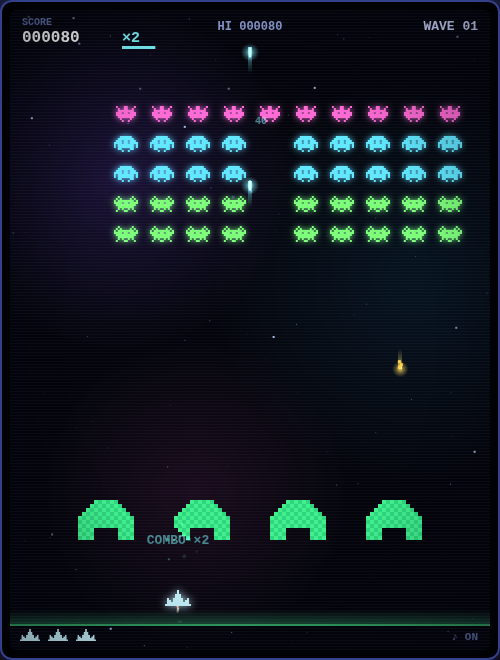
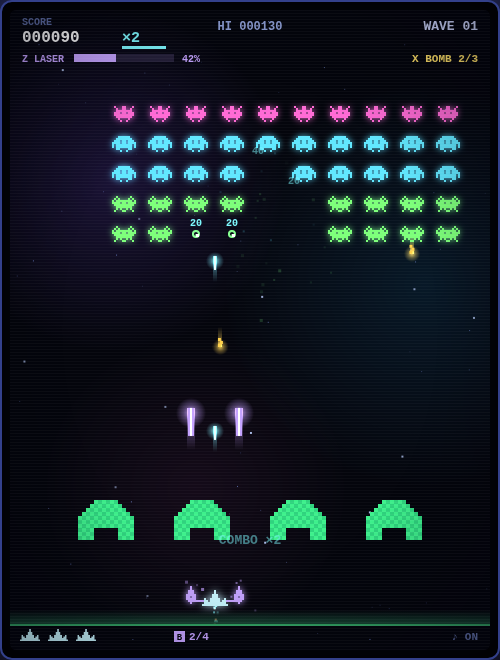
バージョン v2.0.0 に更新し、古いスクリーンショットを撮り直す
- 強化選択の削除などで遊び方が変わったため、README の規則に従いメジャーバージョンを上げる
  （VERSION、README、CHANGELOG、紹介ページ、ソースコード解説の対象バージョン）
- 合体レーザーの画像を、現在の最大幅（連結砲4門）で撮り直す
- README のタイトル画面・プレイ画面を現在の画面で撮り直す
- バージョン表示が写るタイトル画面・ゲームページ全体の画像（日英）を撮り直す

diff --git a/doc/guide/getting-started.html b/doc/guide/getting-started.html
@@ -79,7 +79,7 @@
 <figure class="code-block"><figcaption>ローカルサーバーの起動</figcaption><pre tabindex="0"><code>python3 -m http.server 8000</code></pre></figure>
 <h2 id="section-3">コード枠と確認課題の使い方</h2>
 <p>ファイル名・行番号の付いたコード枠は、今回の解説作成時の実ソースから抜粋しています。「ソースを見る」は GitHub の該当箇所へのリンクです。更新で行番号が変わった場合は、併記した関数名を検索してください。「説明用の例」は仕組みを小さく取り出した例です。</p>
-<aside class="note"><strong>読み解くポイント</strong><p>解説の対象は v1.0.1 のローカルソースです。各項目は個別の HTML ページなので、必要な章だけを開いたり、ブックマークしたりできます。コードや本文の閲覧に追加ライブラリは不要です。</p>
+<aside class="note"><strong>読み解くポイント</strong><p>解説の対象は v2.0.0 のローカルソースです。各項目は個別の HTML ページなので、必要な章だけを開いたり、ブックマークしたりできます。コードや本文の閲覧に追加ライブラリは不要です。</p>
 </aside>
 <aside class="exercise"><strong>確かめてみよう</strong><p>1ウェーブ遊んでから、ゲームループ・入力・弾の処理の3項目を読んでみましょう。画面で見た動きが、どの変数の更新に対応するかを探します。</p>
 </aside>

diff --git a/index.html b/index.html
@@ -40,7 +40,7 @@
   </div>
   <figure class="hero-figure"><a href="game.html" aria-label="ゲームをプレイ"><img src="doc/img/play.png" alt="ネオンの敵編隊に向けて自機が射撃するプレイ画面。緑のバリアとレーザーゲージ、スコアが表示されている。" width="960" height="1280"></a><figcaption>マウスを動かして移動、クリック長押しで連射。</figcaption></figure>
 </div></header>
-<div class="container"><ul class="meta" aria-label="ゲームの概要"><li>ブラウザでそのままプレイ</li><li>日本語・英語に対応</li><li>5ウェーブごとにボス戦</li><li>v1.0.1 · CC0</li></ul></div>
+<div class="container"><ul class="meta" aria-label="ゲームの概要"><li>ブラウザでそのままプレイ</li><li>日本語・英語に対応</li><li>5ウェーブごとにボス戦</li><li>v2.0.0 · CC0</li></ul></div>
 
 <section class="container section" id="screenshots" aria-labelledby="screenshots-title">
   <div class="section-heading"><h2 id="screenshots-title">ゲーム画面で見る、3つの見どころ</h2><p>画像を選ぶと拡大できます</p></div>

diff --git a/doc/index.html b/doc/index.html
@@ -39,7 +39,7 @@
   </div>
   <figure class="hero-figure"><a href="../game.html" aria-label="ゲームをプレイ"><img src="img/play.png" alt="ネオンの敵編隊に向けて自機が射撃するプレイ画面。緑のバリアとレーザーゲージ、スコアが表示されている。" width="960" height="1280"></a><figcaption>マウスを動かして移動、クリック長押しで連射。</figcaption></figure>
 </div></header>
-<div class="container"><ul class="meta" aria-label="ゲームの概要"><li>ブラウザでそのままプレイ</li><li>日本語・英語に対応</li><li>5ウェーブごとにボス戦</li><li>v1.0.1 · CC0</li></ul></div>
+<div class="container"><ul class="meta" aria-label="ゲームの概要"><li>ブラウザでそのままプレイ</li><li>日本語・英語に対応</li><li>5ウェーブごとにボス戦</li><li>v2.0.0 · CC0</li></ul></div>
 
 <section class="container section" id="screenshots" aria-labelledby="screenshots-title">
   <div class="section-heading"><h2 id="screenshots-title">ゲーム画面で見る、3つの見どころ</h2><p>画像を選ぶと拡大できます</p></div>

diff --git a/doc/source.html b/doc/source.html
@@ -36,7 +36,7 @@
   </div>
   <figure class="hero-figure"><a href="../game.html" aria-label="ASTRO DEFENDERをプレイ"><img src="img/play.png" alt="敵の編隊、弾、自機、バリアをCanvasに描いたASTRO DEFENDERのプレイ画面" width="960" height="1280"></a><figcaption>この画面の絵も音も、コードから生成。</figcaption></figure>
 </div></header>
-<div class="container"><ul class="meta" aria-label="解説の概要"><li>全23項目 / 4つの分野</li><li>対象ソース v1.0.1</li><li>HTML・CSS・JavaScript</li><li>Canvas 2D / Web Audio</li></ul></div>
+<div class="container"><ul class="meta" aria-label="解説の概要"><li>全23項目 / 4つの分野</li><li>対象ソース v2.0.0</li><li>HTML・CSS・JavaScript</li><li>Canvas 2D / Web Audio</li></ul></div>
 
 <section class="container section" aria-labelledby="start-title">
   <div class="section-heading"><h2 id="start-title">まずは、この順番で。</h2><p>全体像をつかむための5項目</p></div>

diff --git a/doc/index.en.html b/doc/index.en.html
@@ -40,7 +40,7 @@
   </div>
   <figure class="hero-figure"><a href="../game.html" aria-label="Play the game"><img src="img/play.png" alt="Gameplay showing the neon alien formation, player ship, green barriers, laser gauge and score." width="960" height="1280"></a><figcaption>Move the mouse to fly. Hold the left button to fire.</figcaption></figure>
 </div></header>
-<div class="container"><ul class="meta" aria-label="Game facts"><li>Play directly in your browser</li><li>Japanese / English</li><li>Boss battle every 5 waves</li><li>v1.0.1 · CC0</li></ul></div>
+<div class="container"><ul class="meta" aria-label="Game facts"><li>Play directly in your browser</li><li>Japanese / English</li><li>Boss battle every 5 waves</li><li>v2.0.0 · CC0</li></ul></div>
 
 <section class="container section" id="screenshots" aria-labelledby="screenshots-title">
   <div class="section-heading"><h2 id="screenshots-title">A closer look at the action</h2><p>Select an image to view it full size</p></div>

diff --git a/game.html b/game.html
@@ -58,7 +58,7 @@
 
 /* ================= 基本ユーティリティ ================= */
 
-const VERSION = "1.0.1"; // セマンティック バージョニング。上げ方は README の「バージョン」を参照
+const VERSION = "2.0.0"; // セマンティック バージョニング。上げ方は README の「バージョン」を参照
 const W = 480, H = 640;
 const cvs = document.getElementById("game");
 const ctx = cvs.getContext("2d", { alpha: false }); // 毎フレーム全面を塗るので不透明にし、ページとの合成コストを下げる

diff --git a/doc/source.en.html b/doc/source.en.html
@@ -2595,7 +2595,7 @@ sfx.<span class="t-f">levelUp</span>();</code></pre></div>
 <footer>
   ASTRO DEFENDER — NEON ARCADE EDITION / SOURCE CODE GUIDE<br>
   <a href="../game.html">▶ PLAY</a> · <a href="https://github.com/hnakada123/astro-defender">GitHub</a> · licensed CC0 1.0, like the rest of the repository<br>
-  This guide describes game.html v1.0.1 as of 2026-09-07 (about 2,100 lines)
+  This guide describes game.html v2.0.0 as of 2026-10-09 (about 2,000 lines)
 </footer>
 
 <script>

diff --git a/README.md b/README.md
@@ -7,7 +7,7 @@
 **🌐 Game guide (English): <https://hnakada123.github.io/astro-defender/doc/index.en.html>**
 **📖 ソースコード解説: <https://hnakada123.github.io/astro-defender/doc/source.html>**（初学者向け・全23章）
 
-現在のバージョン: **v1.0.1**（[更新履歴](CHANGELOG.md)）
+現在のバージョン: **v2.0.0**（[更新履歴](CHANGELOG.md)）
 
 ブラウザだけで遊べる、マウス操作のネオレトロ風固定画面シューティングゲームです。
 ゲーム内の画像と音はコードから生成し、ゲーム本体は外部ライブラリなしで `game.html` 1 ファイルで動作します。
@@ -119,7 +119,7 @@ node --test tests/*.test.cjs
 ## バージョン
 
 [セマンティック バージョニング](https://semver.org/lang/ja/)に従い、リリースを `vX.Y.Z` の git タグで記録します。
-現在は **v1.0.1** です。タイトル画面の右下にも表示され、変更内容は [CHANGELOG.md](CHANGELOG.md) にまとめています。
+現在は **v2.0.0** です。タイトル画面の右下にも表示され、変更内容は [CHANGELOG.md](CHANGELOG.md) にまとめています。
 
 - X（メジャー）: 操作やルールが変わるなど、遊び方の互換性に影響する変更
 - Y（マイナー）: 新しい機能・敵・演出の追加

diff --git a/README.en.md b/README.en.md
@@ -6,7 +6,7 @@
 **🎮 Game guide: <https://hnakada123.github.io/astro-defender/doc/index.en.html>**
 **📖 Source code guide: <https://hnakada123.github.io/astro-defender/doc/source.en.html>** (beginner-friendly, 23 chapters)
 
-Current version: **v1.0.1** ([changelog](CHANGELOG.en.md))
+Current version: **v2.0.0** ([changelog](CHANGELOG.en.md))
 
 A neo-retro fixed-screen shooter you play in the browser with the mouse.
 In-game graphics and audio are generated from code, and the game runs from a single `game.html` file without external libraries.
@@ -121,7 +121,7 @@ node --test tests/*.test.cjs
 ## Versioning
 
 Releases follow [Semantic Versioning](https://semver.org/) and are recorded as `vX.Y.Z` git tags.
-The current version is **v1.0.1**. It is also shown in the bottom-right corner of the title screen, and the changes are listed in [CHANGELOG.en.md](CHANGELOG.en.md).
+The current version is **v2.0.0**. It is also shown in the bottom-right corner of the title screen, and the changes are listed in [CHANGELOG.en.md](CHANGELOG.en.md).
 
 - X (major): changes that affect how the game plays, such as new controls or rules
 - Y (minor): new features, enemies or effects

diff --git a/CHANGELOG.md b/CHANGELOG.md
@@ -5,7 +5,9 @@
 このプロジェクトは[セマンティック バージョニング](https://semver.org/lang/ja/)に従います。
 書式は [Keep a Changelog](https://keepachangelog.com/ja/1.1.0/) を参考にしています。
 
-## [Unreleased]
+## [2.0.0] - 2026-10-09
+
+ウェーブ間の強化選択をなくし、バリアやボス戦などのルールを見直したリリース。遊び方が変わるため、メジャーバージョンを上げた。
 
 ### 変更
 
@@ -59,6 +61,6 @@
 - 初学者向けソースコード解説ページ（日本語 / 英語）
 - タイトル画面右下のバージョン表示
 
-[Unreleased]: https://github.com/hnakada123/astro-defender/compare/v1.0.1...HEAD
+[2.0.0]: https://github.com/hnakada123/astro-defender/releases/tag/v2.0.0
 [1.0.1]: https://github.com/hnakada123/astro-defender/releases/tag/v1.0.1
 [1.0.0]: https://github.com/hnakada123/astro-defender/releases/tag/v1.0.0

diff --git a/CHANGELOG.en.md b/CHANGELOG.en.md
@@ -5,7 +5,9 @@
 This project follows [Semantic Versioning](https://semver.org/).
 The format is based on [Keep a Changelog](https://keepachangelog.com/en/1.1.0/).
 
-## [Unreleased]
+## [2.0.0] - 2026-10-09
+
+This release removes the between-wave upgrade pick and reworks rules such as barriers and boss fights. Because the way you play changes, the major version goes up.
 
 ### Changed
 
@@ -59,6 +61,6 @@ First official release.
 - A beginner-friendly source code guide (Japanese / English)
 - Version number in the bottom-right corner of the title screen
 
-[Unreleased]: https://github.com/hnakada123/astro-defender/compare/v1.0.1...HEAD
+[2.0.0]: https://github.com/hnakada123/astro-defender/releases/tag/v2.0.0
 [1.0.1]: https://github.com/hnakada123/astro-defender/releases/tag/v1.0.1
 [1.0.0]: https://github.com/hnakada123/astro-defender/releases/tag/v1.0.0
